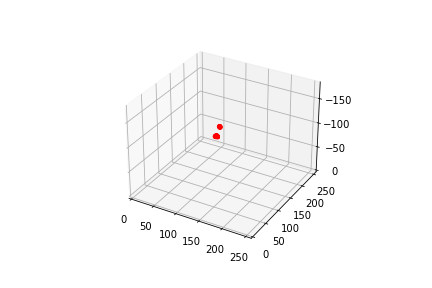
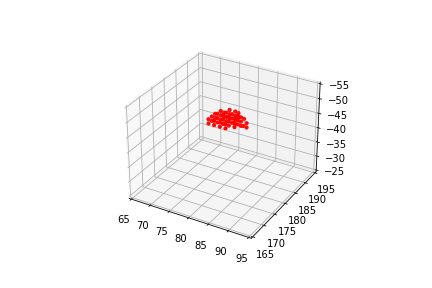
generate correct data

Changed region(s): [[0.3009, 0.1875, 0.8125, 0.9062], [0.5116, 0.7812, 0.5417, 0.8125], [0.2708, 0.75, 0.3009, 0.7812]]

diff --git a/Code/main_1.py b/Code/main_1.py
@@ -34,56 +34,56 @@ def main():
 	# normalise(mypath_og)
 
 	# Import normalised data into relevant variables
-	#CSF, WM, GM = probability_tissue_maps(tissue_maps)
+	CSF, WM, GM = probability_tissue_maps(tissue_maps)
 	print("maps read")
-	#T1_scan_data, FLAIR_scan_data, Lacune_indicator_data, Soft_tiss_data \
-	#	= read_data(T1_scan, FLAIR_scan, T1_Lacunes_Correct, T1_Soft_Tissue)
+	T1_scan_data, FLAIR_scan_data, Lacune_indicator_data, Soft_tiss_data \
+		= read_data(T1_scan, FLAIR_scan, T1_Lacunes_Correct, T1_Soft_Tissue)
 	print("scans read")
 	# Sample Train - Lacunes
-	#X_train_3D_lacune, Y_train_3D_lacune, Y_train_segment_3D_lacune, X_train_3D_nlacune, \
-	#	Y_train_3D_nlacune, Y_train_segment_3D_nlacune = sample_lacunes(CSF, GM, WM, \
-	#	T1_Soft_Tissue_Binary_Mask, T1_scan_data, FLAIR_scan_data, Lacune_indicator_data, Soft_tiss_data)
+	X_train_3D_lacune, Y_train_3D_lacune, Y_train_segment_3D_lacune, X_train_3D_nlacune, \
+		Y_train_3D_nlacune, Y_train_segment_3D_nlacune = sample_lacunes(CSF, GM, WM, \
+		T1_Soft_Tissue_Binary_Mask, T1_scan_data, FLAIR_scan_data, Lacune_indicator_data, Soft_tiss_data)
 	print("lacunes sampled")
 	
 	# Sample Train - Non-Lacunes
-	#X_train_3D_nlacune_func2, Y_train_3D_nlacune_func2, Y_train_segment_3D_nlacune_func2 \
-	#	= non_lacune_sampling(CSF, GM, WM, T1_Soft_Tissue_Binary_Mask, T1_scan_data, \
-	#	FLAIR_scan_data, Lacune_indicator_data, Soft_tiss_data)
+	X_train_3D_nlacune_func2, Y_train_3D_nlacune_func2, Y_train_segment_3D_nlacune_func2 \
+		= non_lacune_sampling(CSF, GM, WM, T1_Soft_Tissue_Binary_Mask, T1_scan_data, \
+		FLAIR_scan_data, Lacune_indicator_data, Soft_tiss_data)
 
 	# Sample Test
-	#X_test_3D_lacune, Y_test_3D_lacune, Y_test_segment_3D_lacune, X_test_3D_nlacune, \
-	#	Y_test_3D_nlacune, Y_test_segment_3D_nlacune = test_sampling(CSF, GM, WM, \
-	#	T1_Soft_Tissue_Binary_Mask, T1_scan_data, FLAIR_scan_data, Lacune_indicator_data, Soft_tiss_data)
+	X_test_3D_lacune, Y_test_3D_lacune, Y_test_segment_3D_lacune, X_test_3D_nlacune, \
+		Y_test_3D_nlacune, Y_test_segment_3D_nlacune = test_sampling(CSF, GM, WM, \
+		T1_Soft_Tissue_Binary_Mask, T1_scan_data, FLAIR_scan_data, Lacune_indicator_data, Soft_tiss_data)
 	print("tests sampled")
 	# Combine Train Test Results
-	#X_train_3D_nlacune_all, Y_train_3D_nlacune_all, Y_train_segment_3D_nlacune_all, X_train, \
-	#	Y_train, Y_train_segment, Y_test_segment, Y_test, X_test = train_test_combine(X_train_3D_lacune, \
-	#	Y_train_3D_lacune, Y_train_segment_3D_lacune, X_train_3D_nlacune, Y_train_3D_nlacune, Y_train_segment_3D_nlacune, \
-	#	X_train_3D_nlacune_func2, Y_train_3D_nlacune_func2, Y_train_segment_3D_nlacune_func2, X_test_3D_lacune, \
-	#	Y_test_3D_lacune, Y_test_segment_3D_lacune, X_test_3D_nlacune, Y_test_3D_nlacune, Y_test_segment_3D_nlacune)
+	X_train_3D_nlacune_all, Y_train_3D_nlacune_all, Y_train_segment_3D_nlacune_all, X_train, \
+		Y_train, Y_train_segment, Y_test_segment, Y_test, X_test = train_test_combine(X_train_3D_lacune, \
+		Y_train_3D_lacune, Y_train_segment_3D_lacune, X_train_3D_nlacune, Y_train_3D_nlacune, Y_train_segment_3D_nlacune, \
+		X_train_3D_nlacune_func2, Y_train_3D_nlacune_func2, Y_train_segment_3D_nlacune_func2, X_test_3D_lacune, \
+		Y_test_3D_lacune, Y_test_segment_3D_lacune, X_test_3D_nlacune, Y_test_3D_nlacune, Y_test_segment_3D_nlacune)
 
 	# First filter
-	#indices = []
-	#X_test_filtered = [] 
-	#Y_test_filtered = []
-	#for iter in range(len(X_test)):
-	#	input_image = X_test[iter][7][:, 15, :]*255
-	#	filterSize =(16,16)
-	#	kernel = cv2.getStructuringElement(cv2.MORPH_RECT,filterSize)
-	#	tophat_img = cv2.morphologyEx(input_image, cv2.MORPH_BLACKHAT,kernel)
-	#	arr = tophat_img[(tophat_img > 75) & (tophat_img < 140)]
-	#	if len(arr) > 0:
-	#		X_test_filtered.append(X_test[iter])
-	#		Y_test_filtered.append(Y_test[iter])
-	#		indices.append(iter)
-	#	iter = iter+1
+	indices = []
+	X_test_filtered = [] 
+	Y_test_filtered = []
+	for iter in range(len(X_test)):
+		input_image = X_test[iter][7][:, 15, :]*255
+		filterSize =(16,16)
+		kernel = cv2.getStructuringElement(cv2.MORPH_RECT,filterSize)
+		tophat_img = cv2.morphologyEx(input_image, cv2.MORPH_BLACKHAT,kernel)
+		arr = tophat_img[(tophat_img > 75) & (tophat_img < 140)]
+		if len(arr) > 0:
+			X_test_filtered.append(X_test[iter])
+			Y_test_filtered.append(Y_test[iter])
+			indices.append(iter)
+		iter = iter+1
 	
-	#print(len(X_test_filtered))
-	#print(sum(Y_test_filtered))			
+	print(len(X_test_filtered))
+	print(sum(Y_test_filtered))			
 	
-	#np.save('/home/z5209394/Data/indices_used.npy', indices)
-	#np.save('/home/z5209394/Data/X_test_filtered.npy', X_test_filtered)	
-	#np.save('/home/z5209394/Data/Y_test_filtered.npy', Y_test_filtered)	
+	np.save('/home/z5209394/Data/indices_used.npy', indices)
+	np.save('/home/z5209394/Data/X_test_filtered.npy', X_test_filtered)	
+	np.save('/home/z5209394/Data/Y_test_filtered.npy', Y_test_filtered)	
 	print("first filter applied")
 	indices = np.load('/home/z5209394/Data/indices_used.npy')
 	Y_test_filtered = np.load('/home/z5209394/Data/Y_test_filtered.npy')
